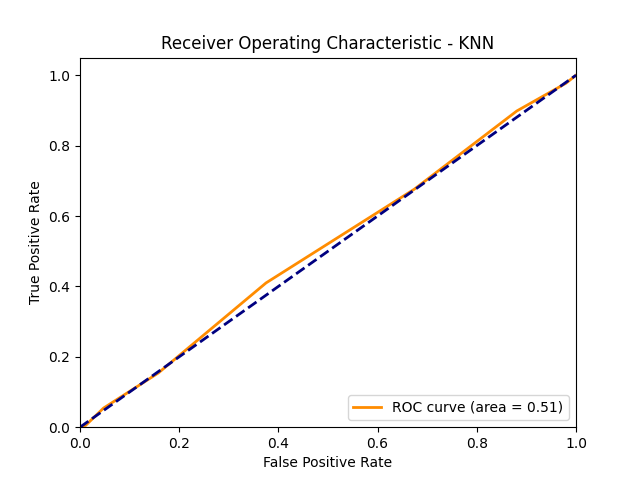
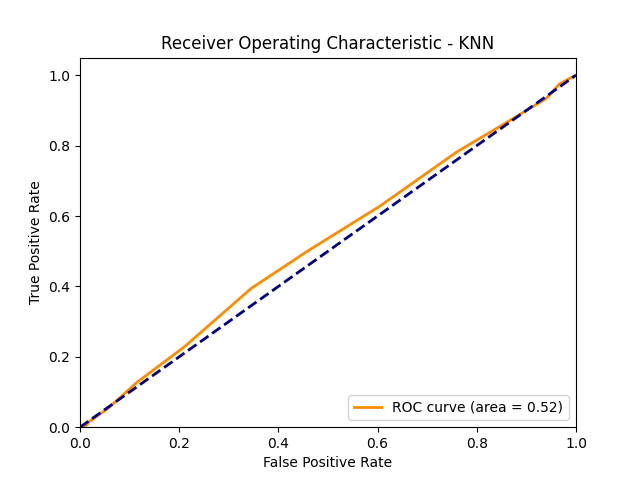
Modifiche minori ad apprendimento supervisionato.

diff --git a/python/supervised.py b/python/supervised.py
@@ -20,11 +20,17 @@ if not os.path.exists(plots_directory):
 reduced_output_path = '../data/merged_data_reduced.csv'
 df_reduced = pd.read_csv(reduced_output_path)
 
+# Seleziona le feature indicate da Boruta salvate in ../data/selected_features.csv
+selected_features_path = '../data/selected_features.csv'
+selected_features = pd.read_csv(selected_features_path, header=0).values.flatten()
+print(f"Selected Features: {selected_features}")
+print(f"Total Selected Features: {len(selected_features)}\n")
+
 # Convertire le feature categoriche in numeriche utilizzando get_dummies per one-hot encoding
 df_reduced = pd.get_dummies(df_reduced)
 
 # Separare le feature (X) e il target (y)
-X = df_reduced.drop(columns=['Lesioni'])  # Usa tutte le feature, non solo quelle selezionate da Boruta
+X = df_reduced[selected_features]
 y = df_reduced['Lesioni']
 
 # Dividere il dataset in training e test set
@@ -49,7 +55,7 @@ param_grid = {
         'svc__kernel': ['linear', 'rbf']
     },
     'KNN': {
-        'knn__n_neighbors': [3, 5, 7]
+        'knn__n_neighbors': [3, 7, 21]
     },
     'LogisticRegression': {
         'logisticregression__C': [0.1, 1, 10]
